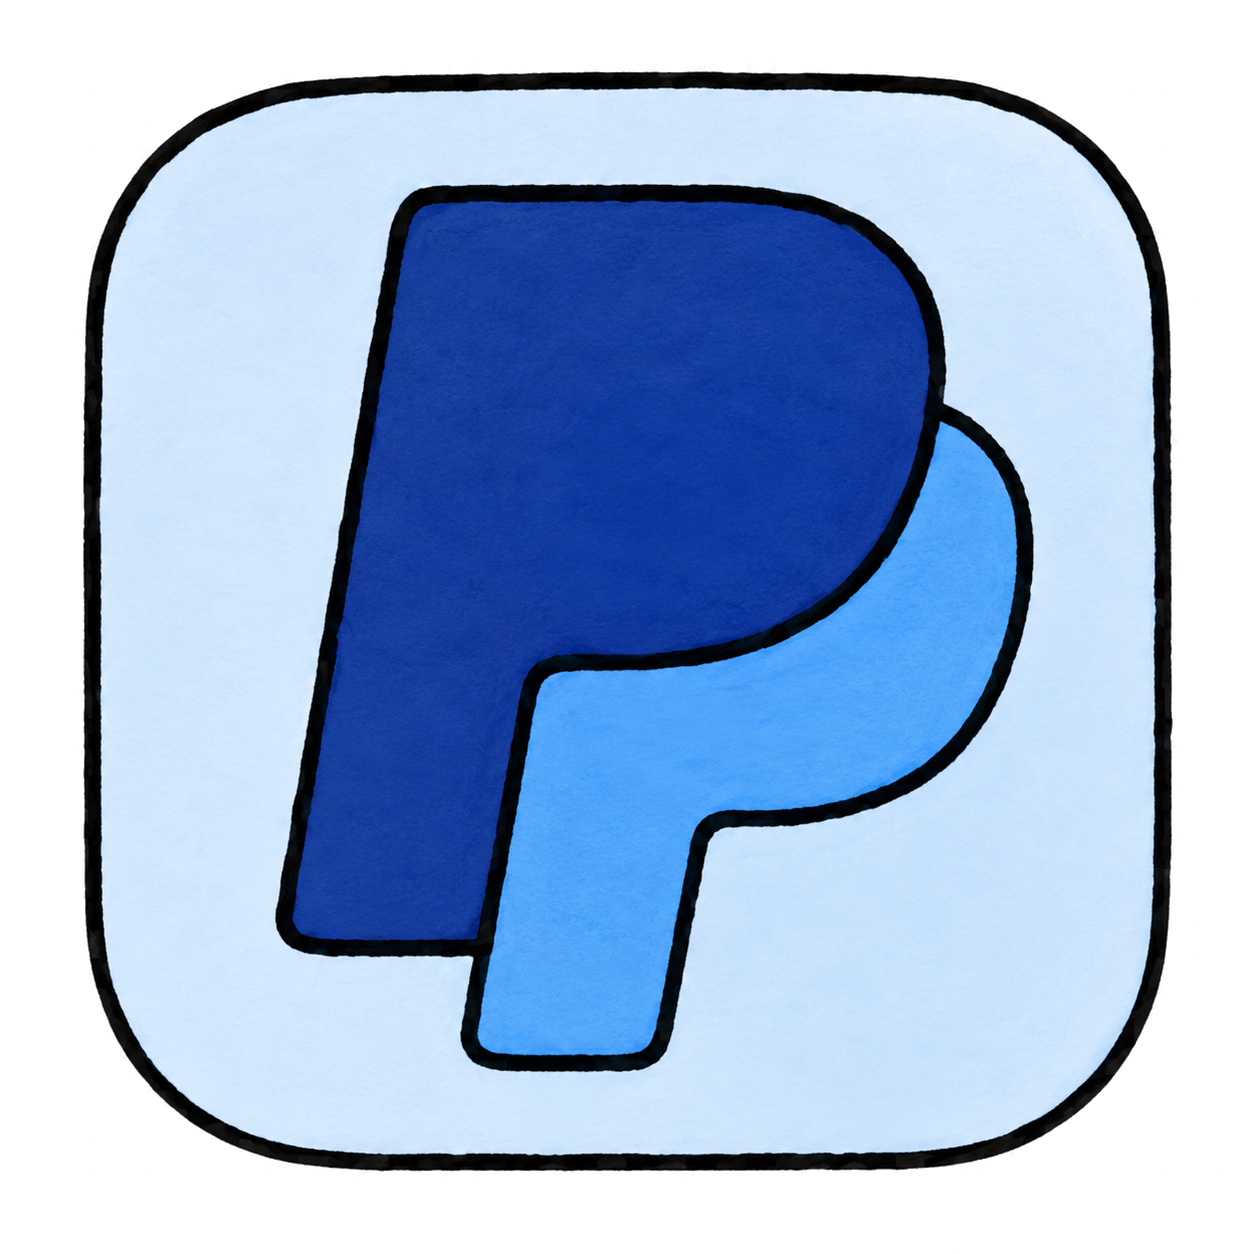
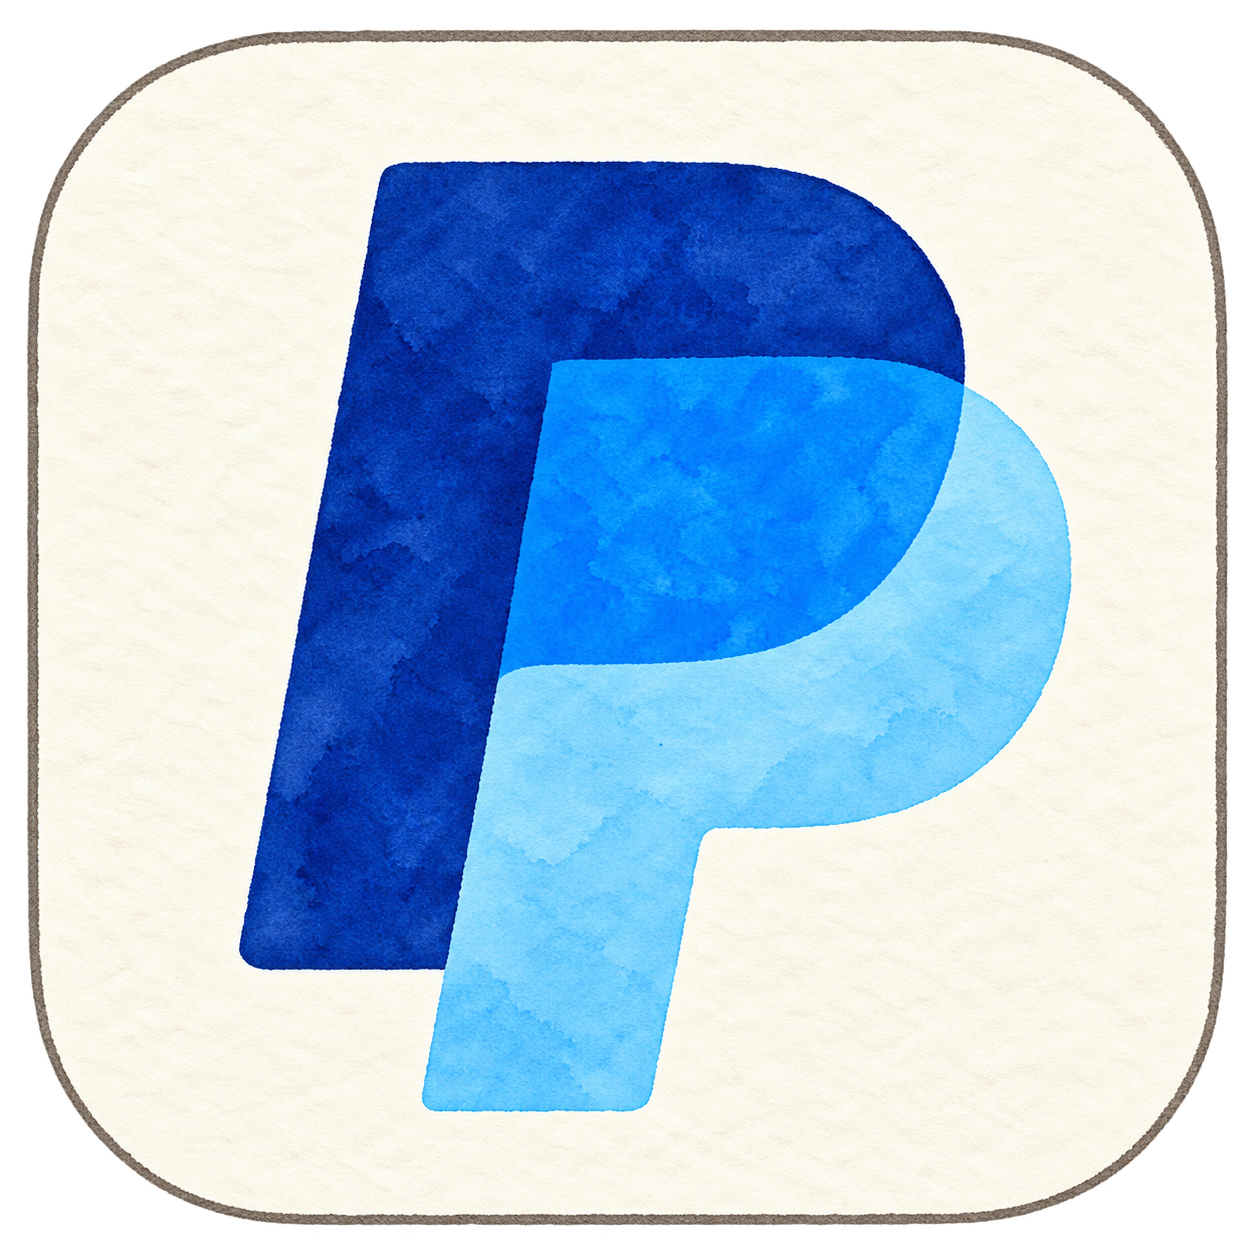
Redraw PayPal monogram with lighter watercolor styling and genuine transparency

diff --git a/README.md b/README.md
@@ -144,7 +144,7 @@ https://raw.githubusercontent.com/zwjtano/icons/main/maps.json
 | <img src="https://raw.githubusercontent.com/zwjtano/icons/main/icons/onedrive.png?v=f47b817f5bde" width="80" height="80" alt="onedrive"> | onedrive OneDrive 微软云盘 微軟雲端硬碟 Microsoft 云存储 雲端儲存 | [onedrive.png](https://raw.githubusercontent.com/zwjtano/icons/main/icons/onedrive.png?v=f47b817f5bde) |
 | <img src="https://raw.githubusercontent.com/zwjtano/icons/main/icons/oracle-cloud.png?v=a8feaaede236" width="80" height="80" alt="oracle-cloud"> | oracle-cloud 甲骨文云 甲骨文 Oracle Cloud OCI | [oracle-cloud.png](https://raw.githubusercontent.com/zwjtano/icons/main/icons/oracle-cloud.png?v=a8feaaede236) |
 | <img src="https://raw.githubusercontent.com/zwjtano/icons/main/icons/paramount-plus.png" width="80" height="80" alt="paramount-plus"> | paramount-plus 派拉蒙 Paramount+ | [paramount-plus.png](https://raw.githubusercontent.com/zwjtano/icons/main/icons/paramount-plus.png) |
-| <img src="https://raw.githubusercontent.com/zwjtano/icons/main/icons/paypal.png?v=c054b3028c54" width="80" height="80" alt="paypal"> | paypal 贝宝 PayPal | [paypal.png](https://raw.githubusercontent.com/zwjtano/icons/main/icons/paypal.png?v=c054b3028c54) |
+| <img src="https://raw.githubusercontent.com/zwjtano/icons/main/icons/paypal.png?v=aaa15fab8c2e" width="80" height="80" alt="paypal"> | paypal 贝宝 PayPal | [paypal.png](https://raw.githubusercontent.com/zwjtano/icons/main/icons/paypal.png?v=aaa15fab8c2e) |
 | <img src="https://raw.githubusercontent.com/zwjtano/icons/main/icons/pbs.png?v=3e2967d18454" width="80" height="80" alt="pbs"> | pbs PBS 美国公共电视 | [pbs.png](https://raw.githubusercontent.com/zwjtano/icons/main/icons/pbs.png?v=3e2967d18454) |
 | <img src="https://raw.githubusercontent.com/zwjtano/icons/main/icons/pbs-kids.png?v=b9729280caac" width="80" height="80" alt="pbs-kids"> | pbs-kids PBS KIDS 儿童 兒童 | [pbs-kids.png](https://raw.githubusercontent.com/zwjtano/icons/main/icons/pbs-kids.png?v=b9729280caac) |
 | <img src="https://raw.githubusercontent.com/zwjtano/icons/main/icons/peacock.png" width="80" height="80" alt="peacock"> | peacock 孔雀 Peacock | [peacock.png](https://raw.githubusercontent.com/zwjtano/icons/main/icons/peacock.png) |

diff --git a/docs/SOURCES.md b/docs/SOURCES.md
@@ -495,3 +495,9 @@ BQ-BO、BQ-SA、BQ-SE、SH-HL、SH-AC、SH-TA 是细分标识，不是新增 ISO
 本套装使用内置图像工具制作，以仓库现有对应旗帜为图案参考，以现有手绘图标为风格参考，采用粗黑描边、水彩纸感和透明背景。检索名称保留原中英文、地区代码与别名，并增加地图检索词。原有地方旗、合并条目和历史图案的选用沿用本页前述说明，不将所有条目称为独立国家。
 
 地图为适合小图展示的概略插画，群岛和海岸线有简化，不是测绘边界数据；图案、徽章及底图中的原有权利与授权说明继续适用。原始参考、生成提示词、检查图和进度清单仅本地归档。
+
+
+## PayPal 图标重绘 · 2026-10-26
+
+- 参考：[PayPal 当前官网](https://www.paypal.com/us/home) 所链接的[官方双 P 图标](https://www.paypalobjects.com/marketing/web/icons/monogram/pp258.png)，以及 [Pentagram 品牌设计说明](https://www.pentagram.com/work/paypal/story)。
+- 保留双 P 的倾角、轮廓和三层蓝色关系，转换为项目的水彩纸感、浅描边与圆角底板；外缘为真实透明通道。本图是非官方风格化重绘，不代表 PayPal 授权或背书，品牌标志归原权利人所有。
